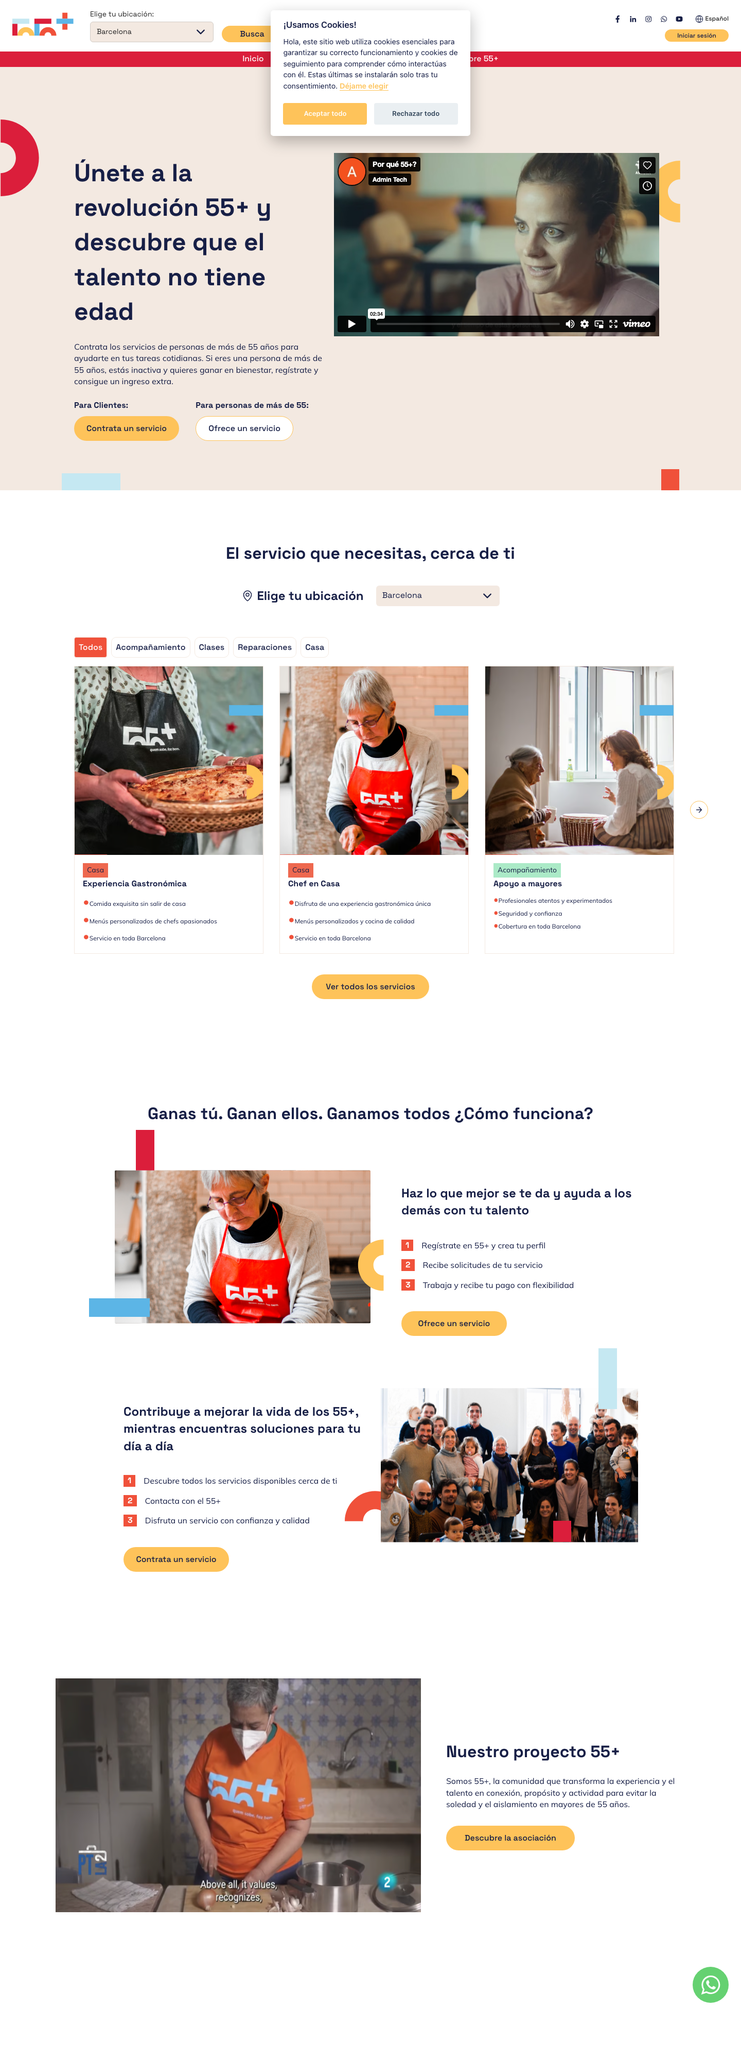
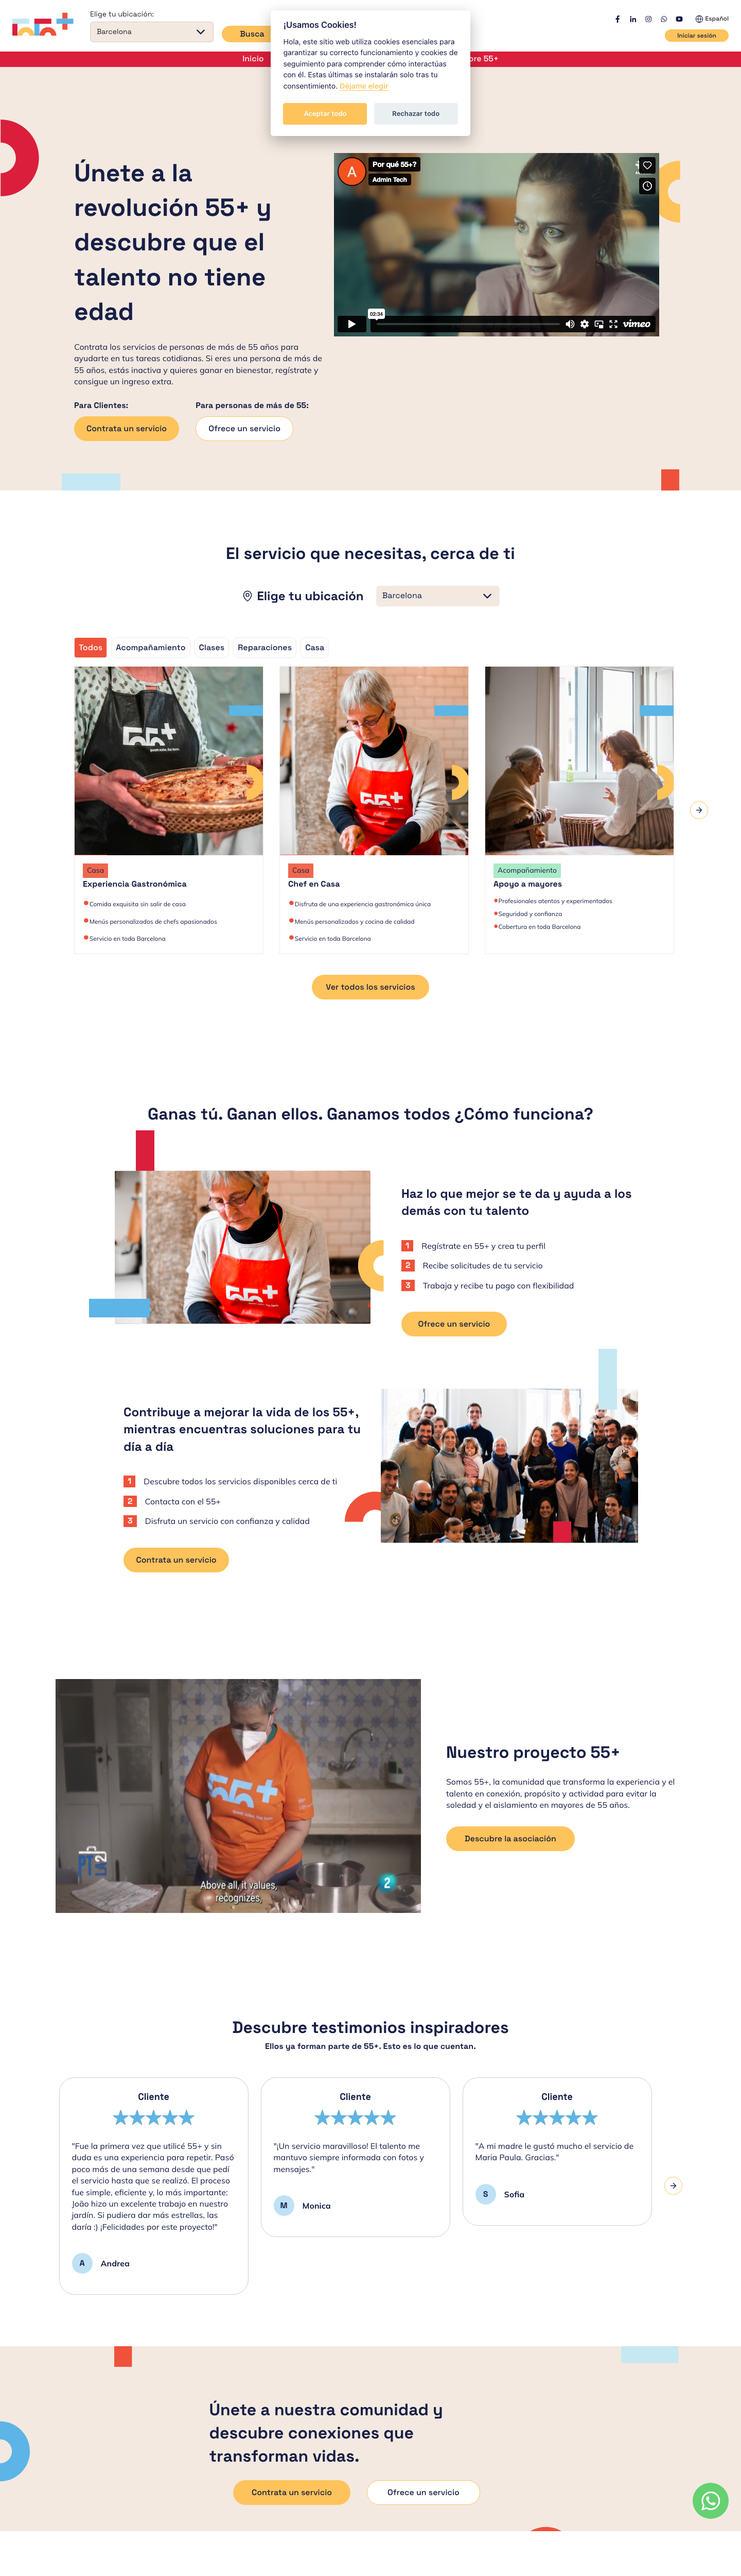
fix(mockup): testimonials — match original copy + carousel format
Replaced placeholder testimonials with the verbatim text from 55mas.es
(extracted via headless Chrome dump of the rendered Bubble DOM):

1. Andrea: "Fue la primera vez que utilicé 55+... ¡Felicidades por
   este proyecto!" (the long one mentioning João + the jardín).
2. Monica: "¡Un servicio maravilloso! El talento me mantuvo siempre
   informada con fotos y mensajes."
3. Sofia: "A mi madre le gustó mucho el servicio de Maria Paula.
   Gracias."

(Original site has 4 in the DB; the 4th is lazy-loaded behind the
carousel arrow and was not present in the dumped DOM. To be added
when we have the text.)

Card format that handles varying lengths:
- Fixed visual shell: centered "Cliente" role + 5 blue ★ row + quote
  + author row.
- min-height: 280 keeps short quotes from looking visually unbalanced
  next to long ones.
- Quote uses flex: 1 so longer text grows the card naturally while
  the author stays anchored at the bottom.
- Carousel: same scroll-snap pattern as services (flex + overflow-x +
  hidden scrollbar). 1 card mobile, 2 tablet, 3 desktop.
- Stars: text characters in --color-accent-blue with brightness 0.85
  to match the muted blue tone of the original.
- Avatar: 36px circle with the initial; same accent blue.

Removed the old CTA button ("Descubre testimonios inspiradores") —
that text now lives in the section title.

Section background switched from cream to white to match the
original visual.

Not pushed.

diff --git a/static-mockups/55mas-home/index.html b/static-mockups/55mas-home/index.html
@@ -281,23 +281,36 @@
 <!-- ── 8. Testimonials ─────────────────────────────────────────── -->
 <section class="testimonials">
   <div class="testimonials__inner">
-    <h2 class="section-title">Ellos ya forman parte de 55+. <span class="section-title__accent">Esto es lo que cuentan.</span></h2>
-    <div class="testimonials__list">
+    <h2 class="testimonials__title">Descubre testimonios inspiradores</h2>
+    <p class="testimonials__subtitle">Ellos ya forman parte de 55+. Esto es lo que cuentan.</p>
+    <div class="testimonials__list" role="region" aria-label="Carrusel de testimonios">
       <article class="testimonial">
-        <p class="testimonial__quote">«Encontré una vocación nueva después de los 60. Ofrecer mis clases de cocina cambió mi día a día.»</p>
-        <footer class="testimonial__author">— Andrea, Barcelona</footer>
+        <span class="testimonial__role">Cliente</span>
+        <div class="testimonial__stars" aria-label="5 de 5 estrellas">★★★★★</div>
+        <p class="testimonial__quote">"Fue la primera vez que utilicé 55+ y sin duda es una experiencia para repetir. Pasó poco más de una semana desde que pedí el servicio hasta que se realizó. El proceso fue simple, eficiente y, lo más importante: João hizo un excelente trabajo en nuestro jardín. Si pudiera dar más estrellas, las daría :) ¡Felicidades por este proyecto!"</p>
+        <footer class="testimonial__author">
+          <span class="testimonial__avatar" aria-hidden="true">A</span>
+          <span class="testimonial__name">Andrea</span>
+        </footer>
       </article>
       <article class="testimonial">
-        <p class="testimonial__quote">«Contratamos a una persona 55+ para acompañar a mi madre y todo cambió en casa.»</p>
-        <footer class="testimonial__author">— Luis, Madrid</footer>
+        <span class="testimonial__role">Cliente</span>
+        <div class="testimonial__stars" aria-label="5 de 5 estrellas">★★★★★</div>
+        <p class="testimonial__quote">"¡Un servicio maravilloso! El talento me mantuvo siempre informada con fotos y mensajes."</p>
+        <footer class="testimonial__author">
+          <span class="testimonial__avatar" aria-hidden="true">M</span>
+          <span class="testimonial__name">Monica</span>
+        </footer>
       </article>
       <article class="testimonial">
-        <p class="testimonial__quote">«La plataforma me dio confianza. Recibo solicitudes y trabajo con flexibilidad.»</p>
-        <footer class="testimonial__author">— Carmen, Barcelona</footer>
+        <span class="testimonial__role">Cliente</span>
+        <div class="testimonial__stars" aria-label="5 de 5 estrellas">★★★★★</div>
+        <p class="testimonial__quote">"A mi madre le gustó mucho el servicio de Maria Paula. Gracias."</p>
+        <footer class="testimonial__author">
+          <span class="testimonial__avatar" aria-hidden="true">S</span>
+          <span class="testimonial__name">Sofia</span>
+        </footer>
       </article>
-    </div>
-    <div class="testimonials__cta">
-      <a href="#" class="btn btn--ghost">Descubre testimonios inspiradores</a>
     </div>
   </div>
 </section>

diff --git a/static-mockups/55mas-home/styles.css b/static-mockups/55mas-home/styles.css
@@ -603,21 +603,84 @@ ul, ol { margin: 0; padding: 0; list-style: none; }
 
 /* ── 8. Testimonials ──────────────────────────────────────── */
 
-.testimonials { background: var(--color-bg-cream); padding: 56px 0; }
+/* Testimonials — horizontal carousel of "review" cards. Cards have a
+   stable visual shape (centered Cliente label + star row + auto-
+   growing quote + author). Min-height ensures short quotes still
+   look balanced next to long ones. */
+.testimonials { background: var(--color-white); padding: 72px 0; }
 .testimonials__inner { max-width: var(--container); margin: 0 auto; padding: 0 16px; }
-.testimonials__list { display: grid; gap: 16px; margin-bottom: 24px; }
-@media (min-width: 768px) {
-  .testimonials__list { grid-template-columns: repeat(3, 1fr); gap: 20px; }
+.testimonials__title {
+  font-size: 2rem; font-weight: 700;
+  text-align: center; margin: 0 0 6px;
+  color: var(--color-text);
 }
+.testimonials__subtitle {
+  font-size: 1rem; font-weight: 600;
+  text-align: center; margin: 0 0 36px;
+  color: var(--color-text);
+}
+.testimonials__list {
+  display: flex; gap: 24px;
+  overflow-x: auto;
+  scroll-snap-type: x mandatory;
+  padding: 4px 4px 16px;
+  margin: 0 -4px;
+  scrollbar-width: none;
+}
+.testimonials__list::-webkit-scrollbar { display: none; }
+
 .testimonial {
-  background: white;
-  border-radius: var(--radius-md);
-  padding: 22px 22px 18px;
+  flex: 0 0 86vw;
+  scroll-snap-align: start;
+  background: var(--color-white);
+  border: 1px solid var(--color-border);
+  border-radius: 18px;
+  padding: 28px 28px 24px;
+  display: flex; flex-direction: column;
+  text-align: center;
+  min-height: 280px;
   box-shadow: var(--shadow-card);
 }
-.testimonial__quote { font-size: 0.95rem; margin: 0 0 12px; color: var(--color-text); }
-.testimonial__author { font-size: 0.85rem; color: var(--color-text-soft); font-weight: 600; }
-.testimonials__cta { text-align: center; }
+@media (min-width: 640px) { .testimonial { flex: 0 0 calc(50% - 12px); } }
+@media (min-width: 1024px) { .testimonial { flex: 0 0 calc((100% - 48px) / 3); } }
+
+.testimonial__role {
+  font-size: 1.1rem; font-weight: 700;
+  color: var(--color-text);
+  margin-bottom: 10px;
+}
+.testimonial__stars {
+  font-size: 1.4rem;
+  color: var(--color-accent-blue);
+  letter-spacing: 2px;
+  margin-bottom: 22px;
+  filter: brightness(0.85);
+}
+.testimonial__quote {
+  font-size: 0.95rem; font-style: italic;
+  color: var(--color-text);
+  line-height: 1.55;
+  margin: 0 0 24px;
+  text-align: left;
+  flex: 1;
+}
+.testimonial__author {
+  display: flex; align-items: center; justify-content: flex-start;
+  gap: 12px;
+}
+.testimonial__avatar {
+  width: 36px; height: 36px;
+  border-radius: 50%;
+  background: var(--color-accent-blue);
+  color: var(--color-text);
+  font-size: 0.95rem; font-weight: 700;
+  display: inline-flex; align-items: center; justify-content: center;
+  flex: 0 0 auto;
+}
+.testimonial__name {
+  font-size: 0.95rem; font-weight: 700;
+  color: var(--color-text);
+}
 
 /* ── 9. Collaborators ─────────────────────────────────────── */
 
